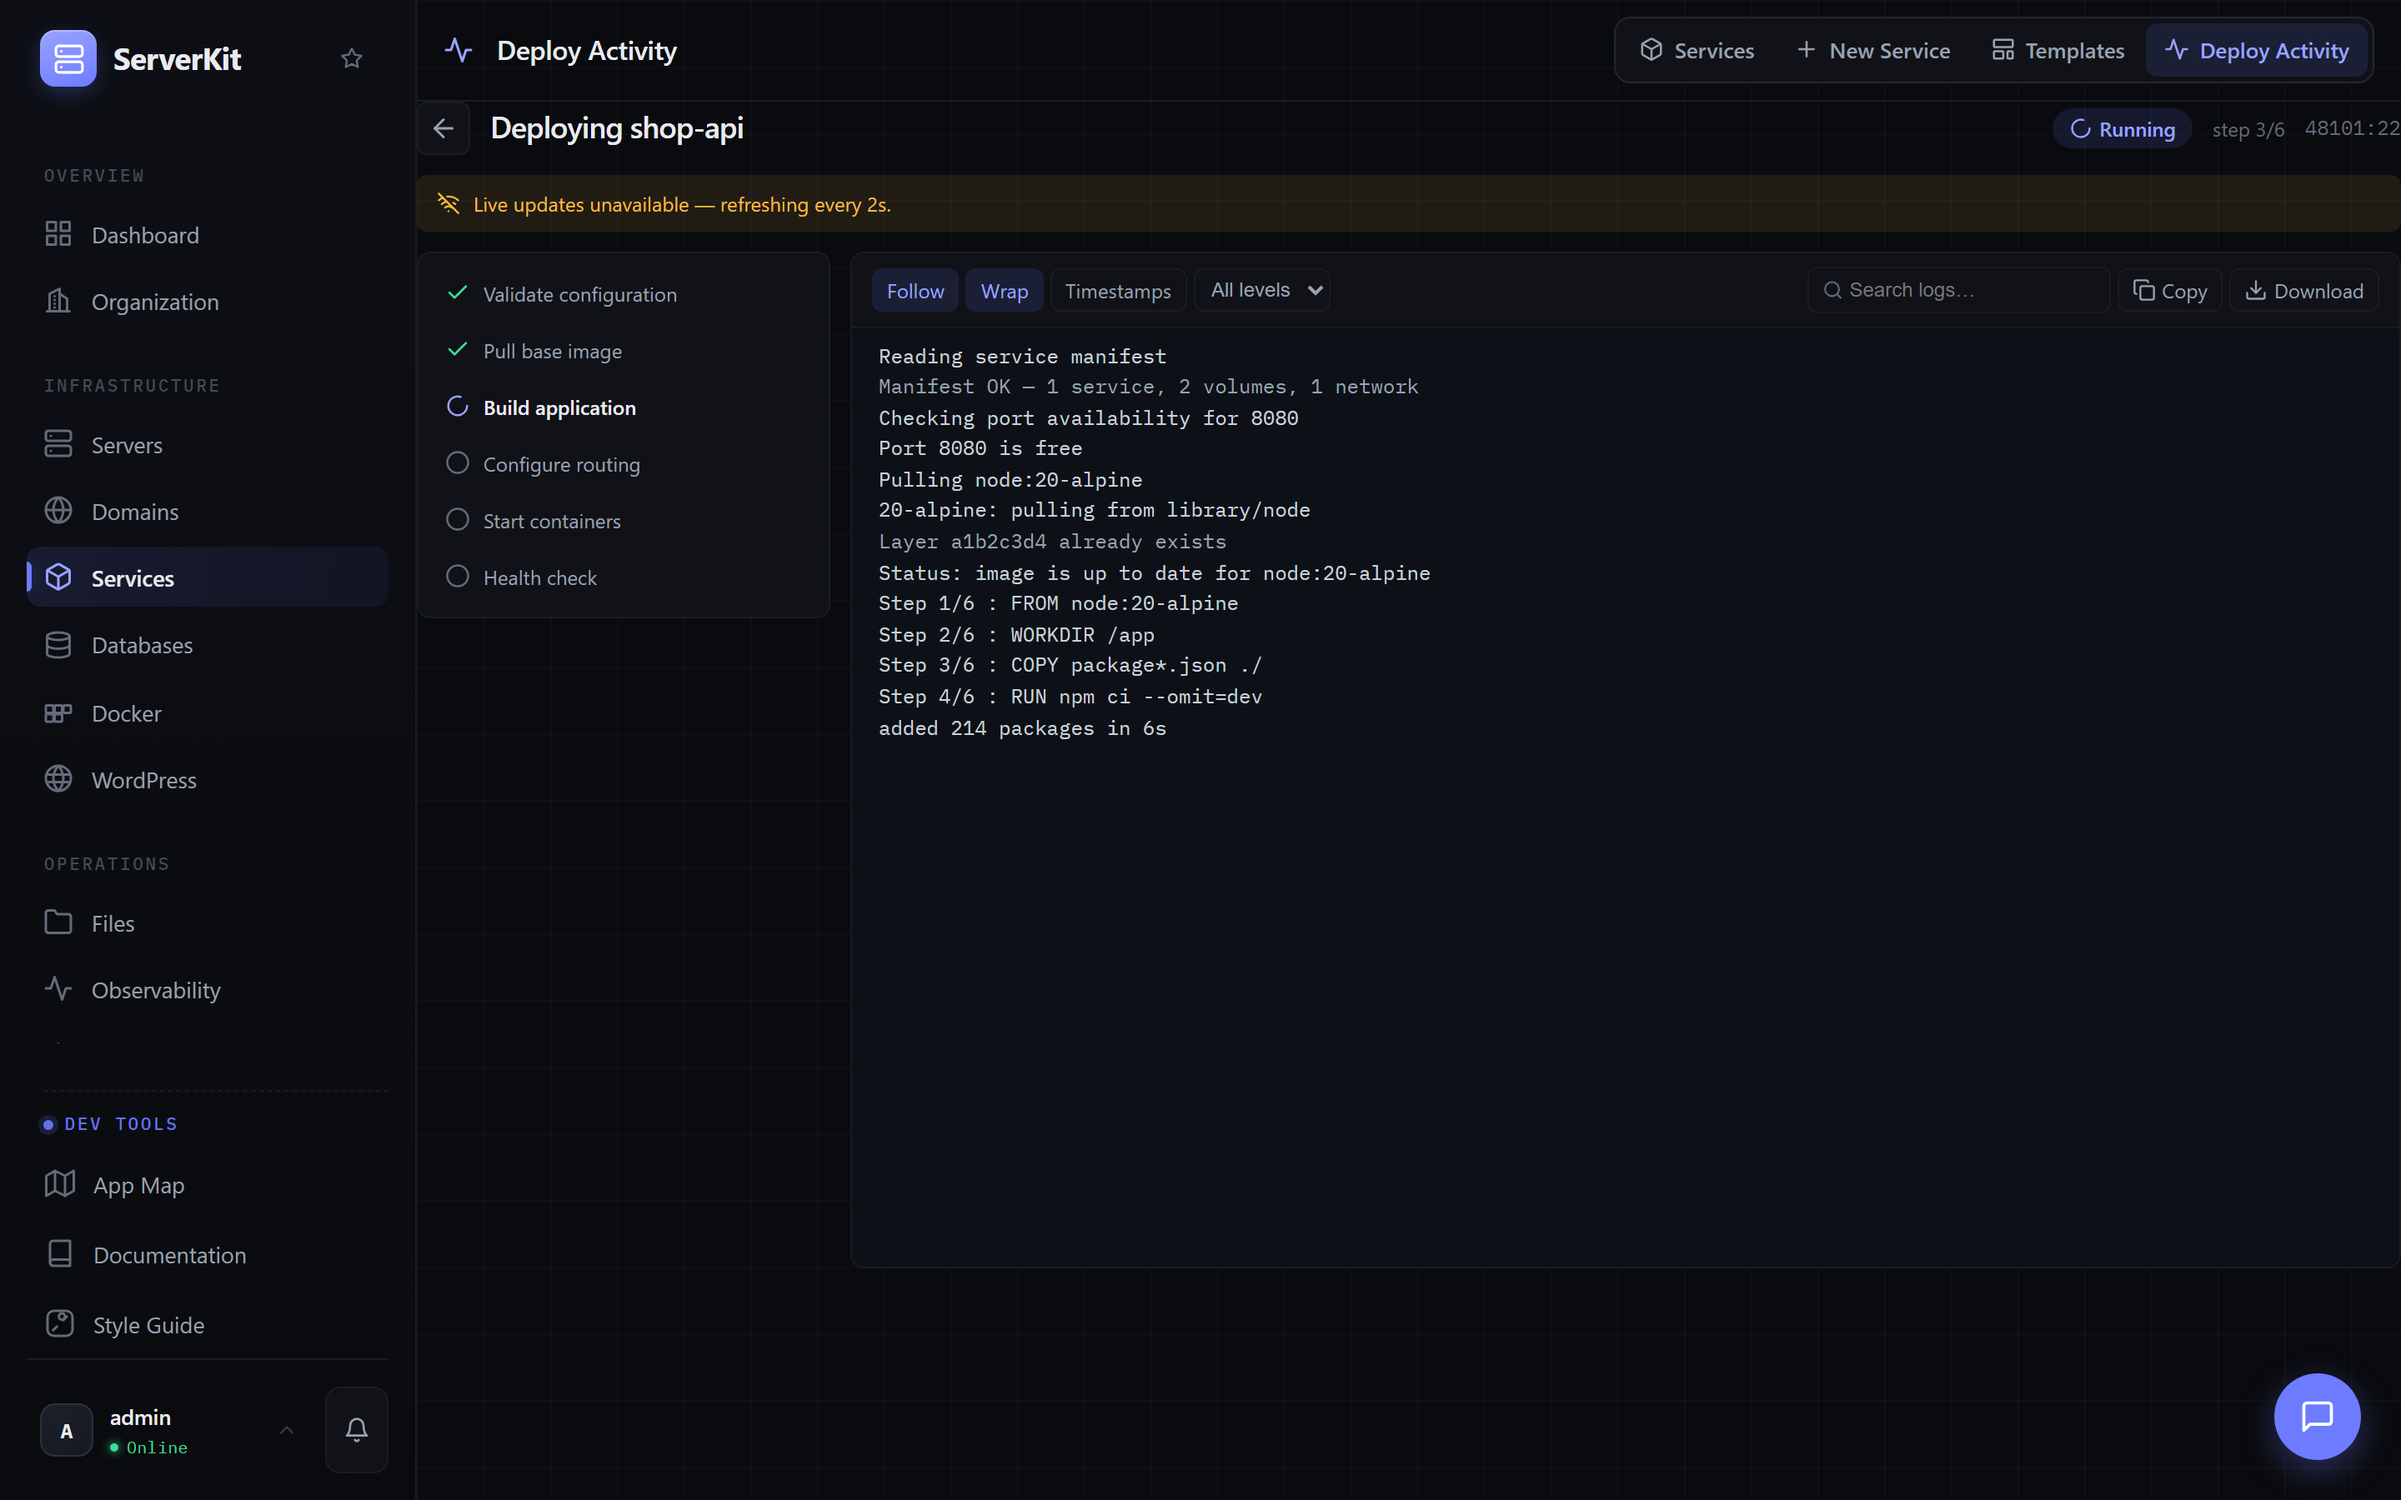
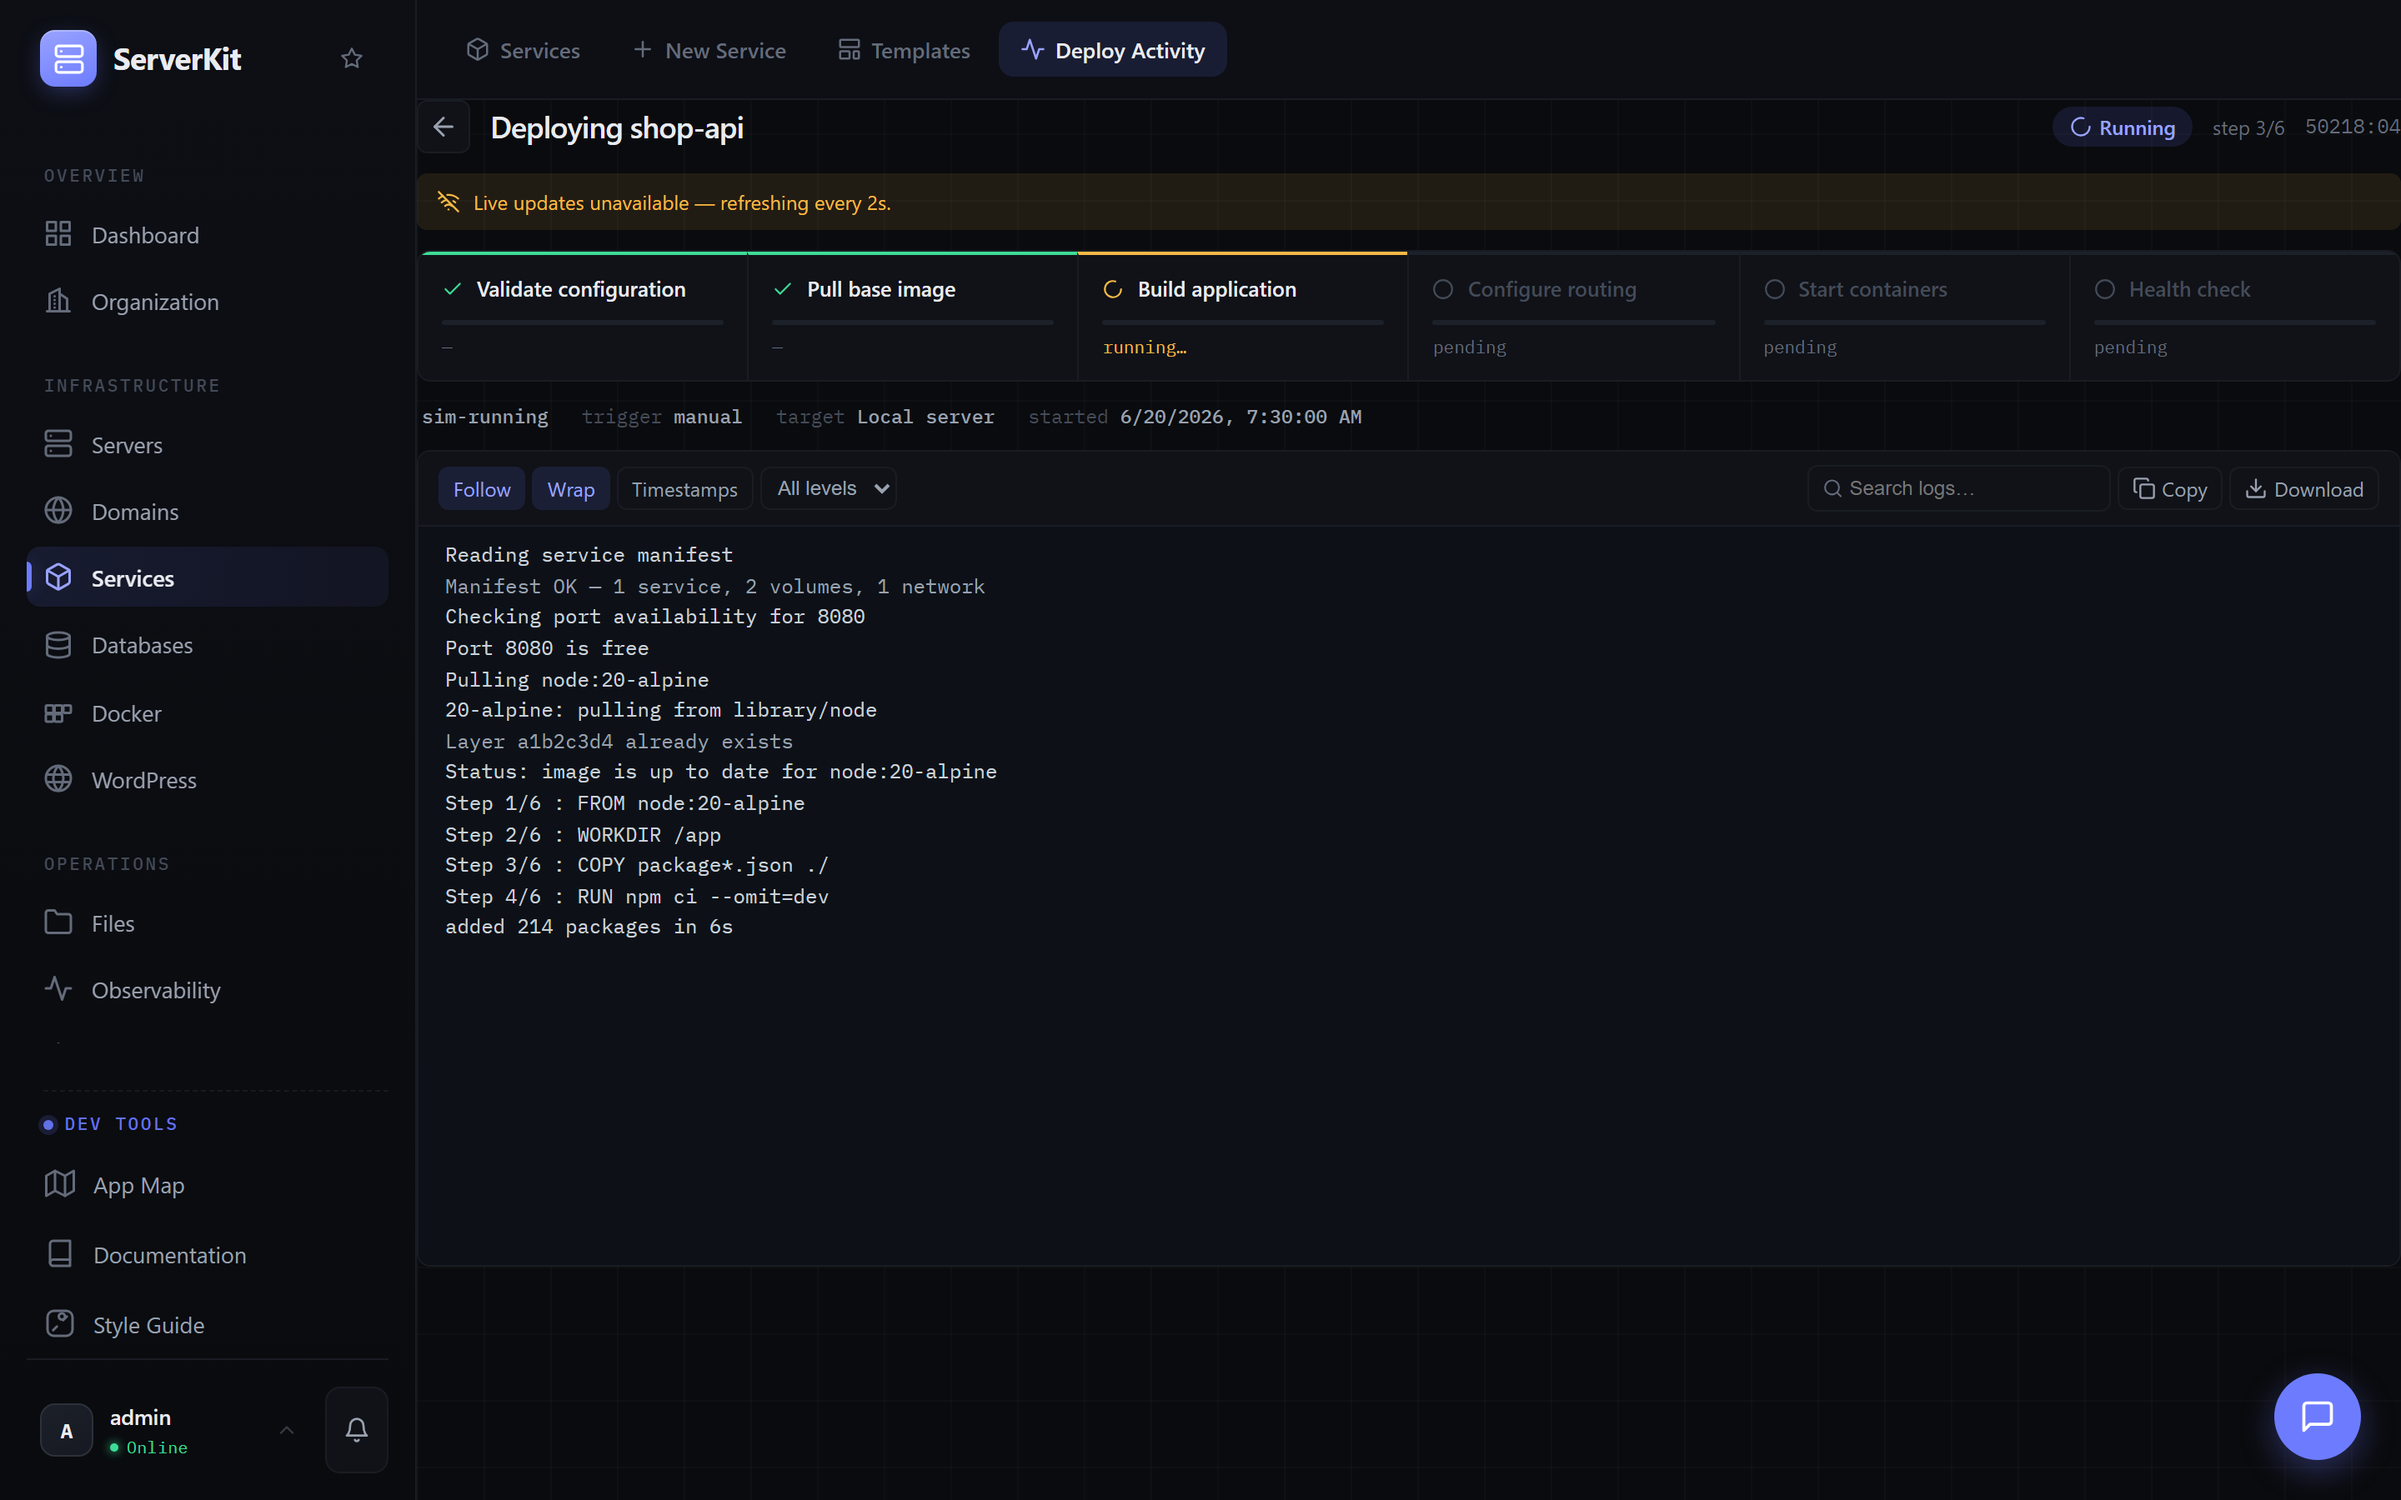
docs: refresh Services-group screenshots + changelog
Recaptured against the ported design, plus new shots for the templates
catalog, its filter and deploy drawers, and the Services card view.

diff --git a/CHANGELOG.md b/CHANGELOG.md
@@ -20,6 +20,37 @@ awaiting a stable release:
 
 ### Added
 
+- **Deploy Activity is now a live feed, not a table.** Runs group into Queued /
+  Today / Earlier, each row showing the service, what was deployed (commit,
+  image, or template) and why (push, webhook, manual), a per-step pipeline bar,
+  target server, duration, and — on failures — the error inline. Status filters
+  carry live counts, and a search box in the top bar narrows by service, source,
+  or server.
+
+- **Deploy Console pipeline strip.** The vertical step checklist became a
+  horizontal strip above the log, with each step's bar sized to its share of the
+  run — so where the time went is visible at a glance, and the log pane gets the
+  full page width. A run-identity line (job id, trigger, source, target, start
+  time) sits between them.
+
+- **Templates: import shortcuts and a deploy drawer.** The catalog leads with
+  the two routes no template covers — import from GitHub, or drop in a ZIP — and
+  gained a Featured / A–Z sort. Deploying a template now opens a drawer that
+  shows the subdomain the service will be published at (when a base domain is
+  configured), and a server picker listing each target's CPU and memory, so
+  placing a service on a second box is a visible choice.
+
+- **Services: card view.** The services list can switch between the dense table
+  and a card layout; the choice is remembered per browser.
+
+### Changed
+
+- **Section top bars lead with their tabs.** Pages in a tab group (Services,
+  Domains, Files, Monitoring, Security, …) no longer repeat the section name as
+  a heading — the tab strip runs flush left and the active tab names the page,
+  as the lit sidebar item already did. Entity pages (a single service, site, or
+  zone) keep their title, since there the title says *which* entity you are on.
+
 - **Test deployments (dev tool).** In development mode, Deploy Activity gains a
   "Test deployment" action that streams a scripted deploy — success, failing
   build, very long output, ANSI noise, or slow — through the real Deploy
